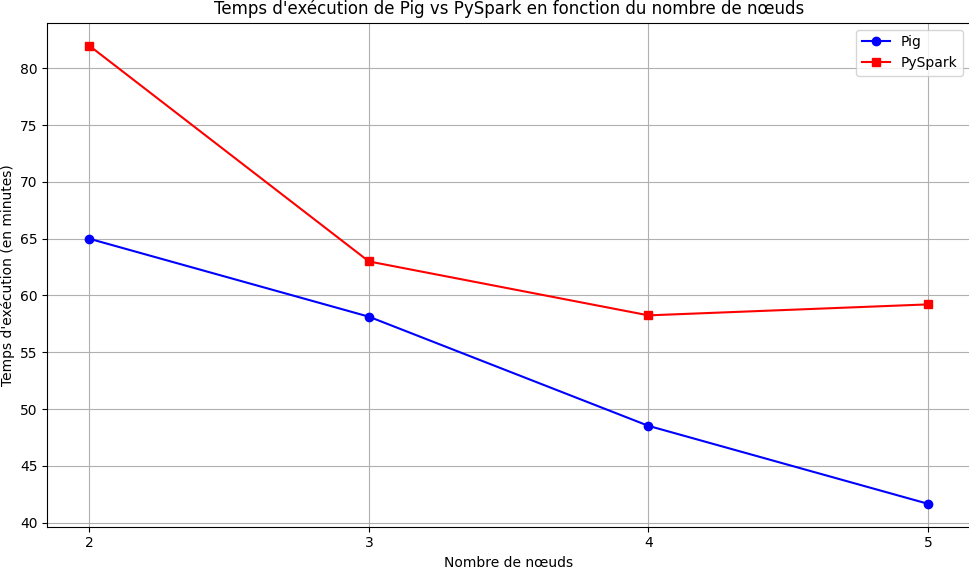
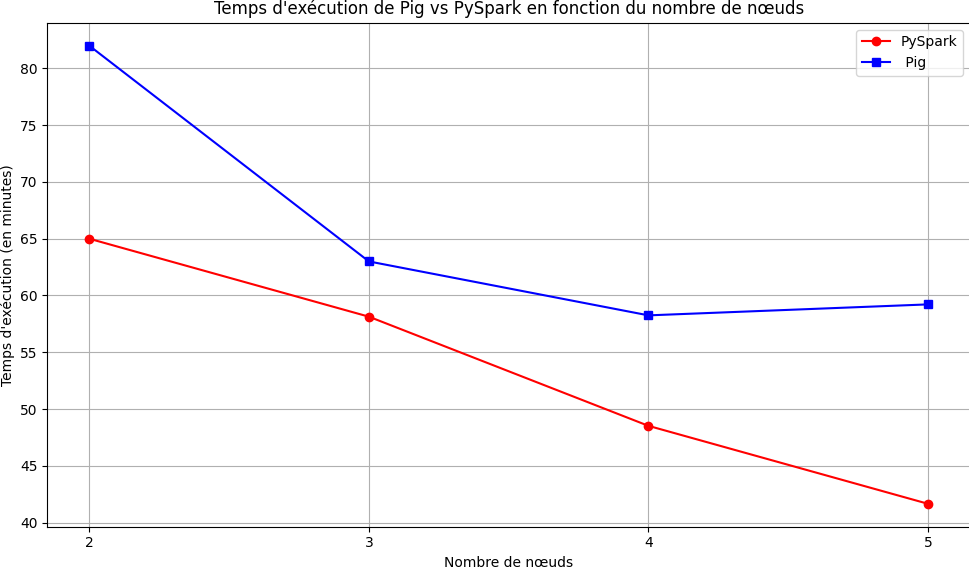
final commit

diff --git a/README.md b/README.md
@@ -27,7 +27,6 @@
 - [**Running PageRank with Pig and PySpark**](#running-pagerank)
 
 
-
 ## 🚀 Running PageRank
 
 ### 🐖 Pig
@@ -37,46 +36,43 @@
 
 | Nombre de nœuds | Temps d'exécution | Dataproc Job ID |
 |:---------------:|:-----------------:|:---------------:|
-| 2               | 1h 5min           | `d197e9a75eb84e728f168ce07d1b2849` |
-| 3               | 58min 8s          | `efb42eb6d08847768a6543a5ee8c7176` |
-| 4               | 48min 31s         | `dcc9ddf87ec74685b960af7eef3763ea` |
-| 5               | 41min 39s         | `2b2acb5c8bd7c41b4bb50232d9ecc0bd` |
-
-### 🔥 PySpark
-📁 **Directory**: `scripts/pyspark/`   
-🔧 **Command**: Use `run.sh` to initiate the PageRank computation.
-
-| Nombre de nœuds | Temps d'exécution | Dataproc Job ID |
-|:---------------:|:-----------------:|:---------------:|
 | 2               | 1 h 22 min        | `8adfa467418740639f80428886007559` |
 | 3               | 1 h 3 min         | `104ad0ee059d84dd7a108cb95c23387e1` |
 | 4               | 58 min 15 s       | `4ecdd4e131e154d38b3e193019ed9cb09` |
 | 5               | 59 min 13 s       | `d273d8af8251a474fa55d3a6cbbb3d87be` |
 
+### 🔥 PySpark
+
+📁 **Directory**: `scripts/pyspark/`   
+🔧 **Command**: Use `run.sh` to initiate the PageRank computation.
+
+| Nombre de nœuds | Temps d'exécution | Dataproc Job ID |
+|:---------------:|:-----------------:|:---------------:|
+| 2               | 1h 5min           | `d197e9a75eb84e728f168ce07d1b2849` |
+| 3               | 58min 8s          | `efb42eb6d08847768a6543a5ee8c7176` |
+| 4               | 48min 31s         | `dcc9ddf87ec74685b960af7eef3763ea` |
+| 5               | 41min 39s         | `2b2acb5c8bd7c41b4bb50232d9ecc0bd` |
+
 ## 📊 Comparaison entre Pig et PySpark
-
-![Comparaison Pig vs PySpark](./graph/trinket_plot.png)
-
-## 💡 Analyse
 
 ### Tendance générale
 - 📈 L'augmentation du nombre de nœuds réduit généralement le temps d'exécution pour les deux frameworks.
 
 ### Performance de Pig vs PySpark
-- **Avec 2 nœuds** : Pig est légèrement plus rapide que PySpark.
-- **Avec 3 nœuds** : Pig a une avance notable sur PySpark.
-- **Avec 4 nœuds** : L'écart entre Pig et PySpark se réduit.
-- **Avec 5 nœuds** : PySpark rattrape presque Pig.
+- **Avec 2 nœuds** : Pig est plus lent que PySpark de 17 minutes.
+- **Avec 3 nœuds** : Pig est plus rapide que PySpark de 5 minutes.
+- **Avec 4 nœuds** : Pig est plus lent que PySpark de presque 10 minutes.
+- **Avec 5 nœuds** : Pig est plus lent que PySpark de 17 minutes et 34 secondes.
 
 ### Efficacité de l'ajout de nœuds
-- **Pour Pig** : Mise à l'échelle efficace avec des nœuds supplémentaires.
-- **Pour PySpark** : Amélioration jusqu'à 4 nœuds, plateau à 5 nœuds.
+- **Pour Pig** : La réduction du temps d'exécution se stabilise après 3 nœuds.
+- **Pour PySpark** : Le temps d'exécution continue de diminuer même avec l'ajout du cinquième nœud.
 
 ### 📍 Points clés:
-1. Meilleure parallélisation avec plus de nœuds.
-2. Pig a une performance supérieure au début.
-3. PySpark rattrape Pig avec l'ajout de nœuds.
+1. L'ajout de nœuds améliore la parallélisation et réduit le temps d'exécution pour les deux frameworks.
+2. PySpark dépasse Pig en performance dans la plupart des configurations de nœuds, sauf avec 3 nœuds où Pig est légèrement plus rapide.
+3. L'efficacité de PySpark semble augmenter de manière plus constante avec l'ajout de nœuds par rapport à Pig.
 
-## 🎯 Conclusion:
+## 🎯 Conclusion
 
-Pig a une meilleure performance initiale, mais PySpark se rapproche avec plus de nœuds. Il est crucial de tester ces frameworks avec diverses tâches et paramètres pour une évaluation complète.
+Même si Pig présente une meilleure performance dans la configuration à 3 nœuds, PySpark se montre généralement plus rapide dans les autres configurations. Il est recommandé d'utiliser PySpark pour des clusters avec un grand nombre de nœuds pour maximiser la performance. Cependant, les performances spécifiques peuvent varier selon la tâche, la configuration du cluster et d'autres paramètres, d'où la nécessité de réaliser des tests adaptés à l'environnement et aux besoins réels.
